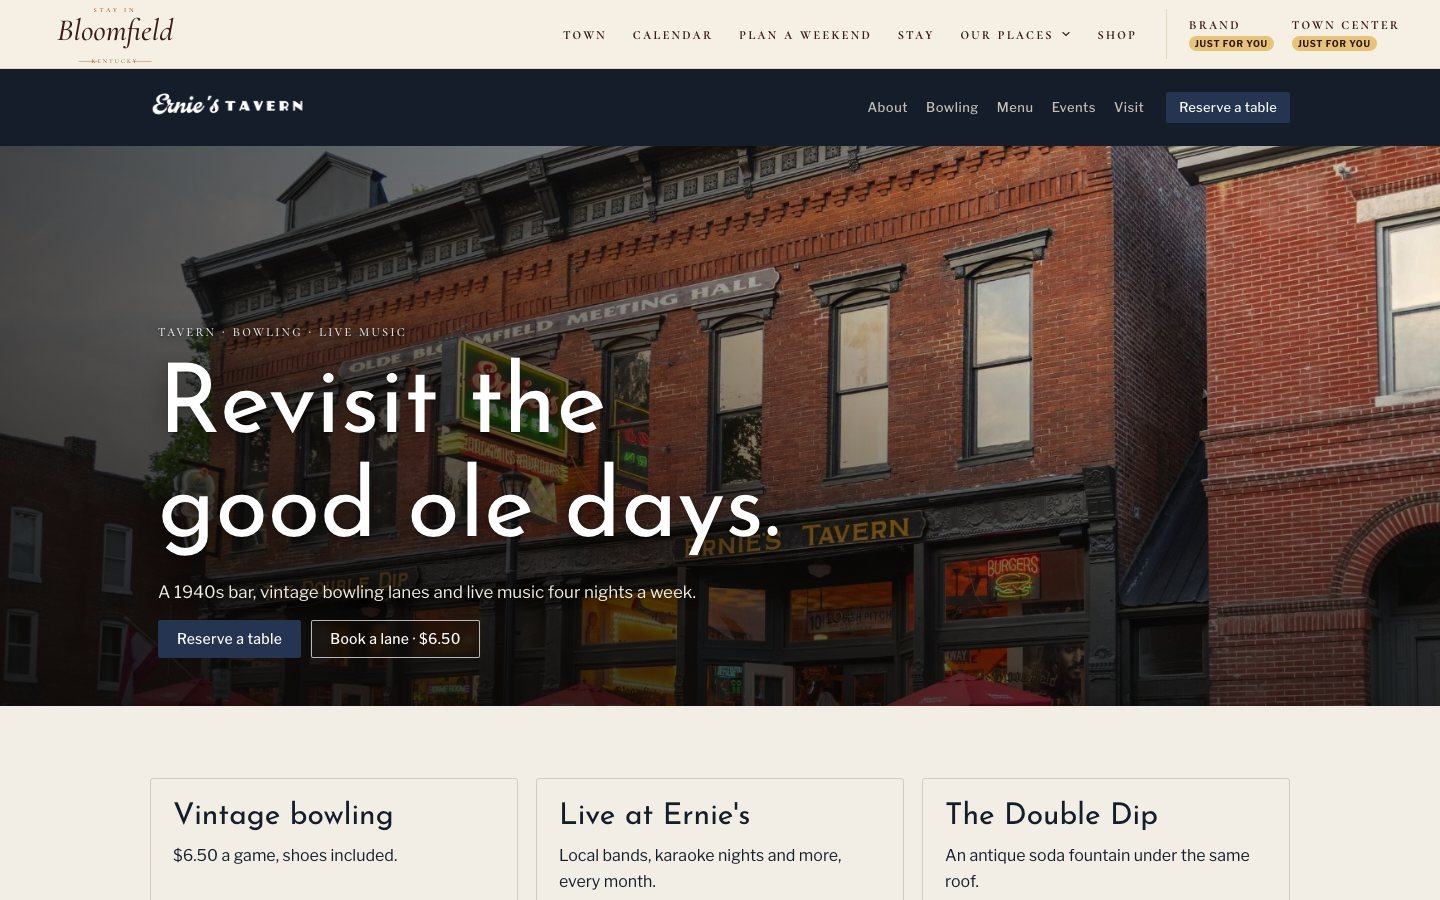
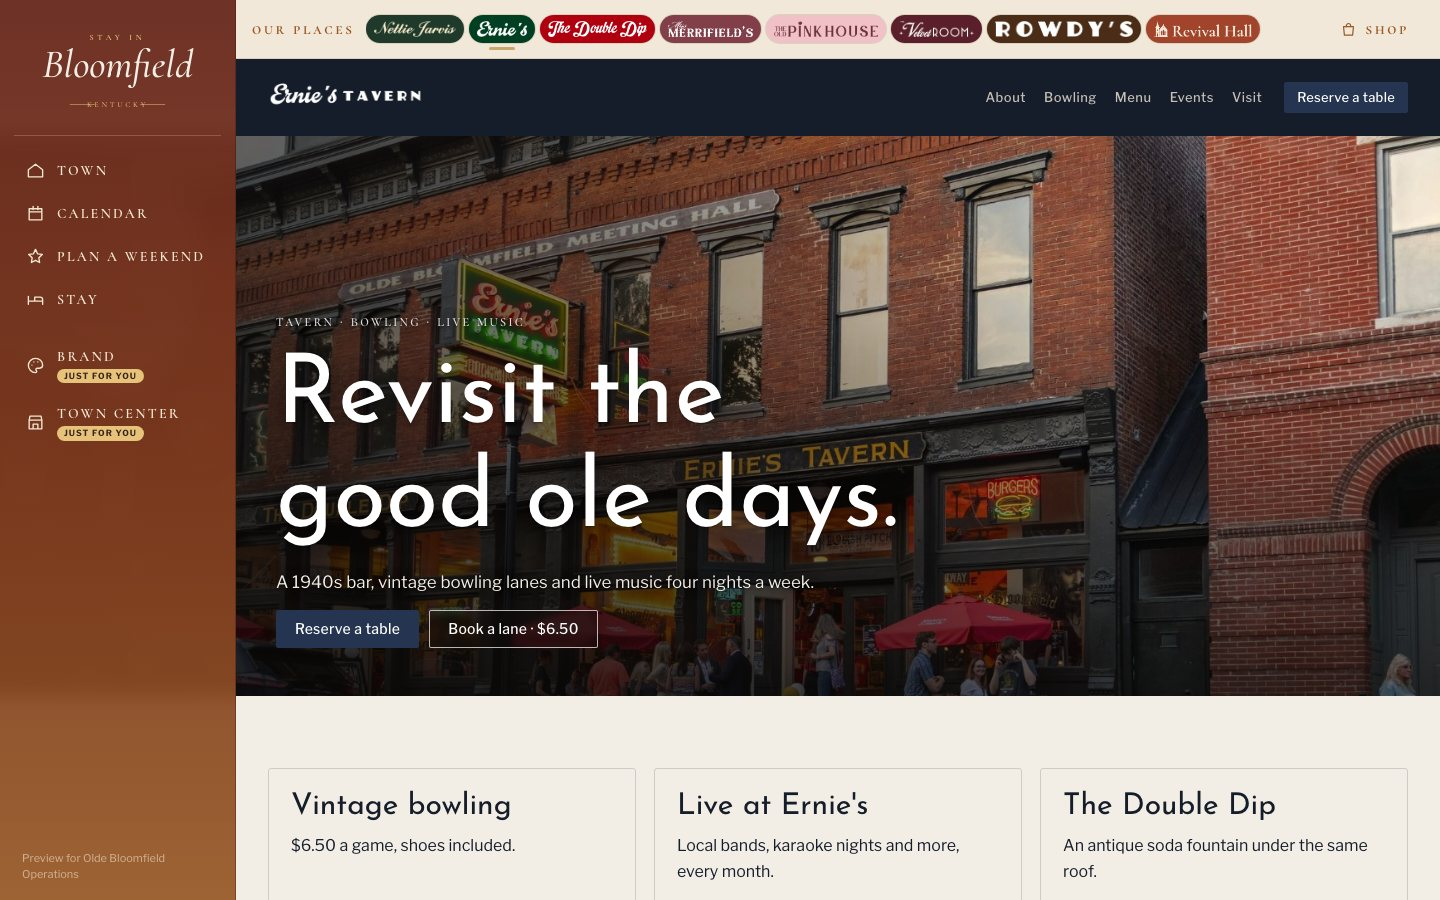
Ernie's header framing

diff --git a/index.html b/index.html
@@ -1964,7 +1964,7 @@ body.touring .tour-arrow { animation: nudgeup 1.2s ease-in-out infinite }
 .bowl-btn { font-size: 18px !important; padding: 16px 30px !important; background: #c8102e !important; border-color: #c8102e !important; color: #fff !important; border-radius: 40px }
 @media (max-width: 760px) { .bowl .wrap { grid-template-columns: 1fr; justify-items: center; text-align: center } .bowl-txt { justify-items: center } }
 
-.site-ernies .shero img { object-position: center 28% }
+.site-ernies .shero img { object-position: center 88% }
 
 /* the old sidebar is gone, so heroes no longer reach under it */
 
@@ -2019,12 +2019,12 @@ body.touring .tour-arrow { animation: nudgeup 1.2s ease-in-out infinite }
 
 <script src="https://cdn.jsdelivr.net/npm/three@0.147.0/build/three.min.js"></script>
 <script src="https://cdn.jsdelivr.net/npm/three@0.147.0/examples/js/controls/OrbitControls.js"></script>
-<script src="data.js?v=1793461023"></script>
-<script src="stays.data.js?v=1793461023"></script>
-<script src="map.js?v=1793461023"></script>
-<script src="app.js?v=1793461023"></script>
-<script src="brand.js?v=1793461023"></script>
-<script src="shop.js?v=1793461023"></script>
-<script src="center.js?v=1793461023"></script>
-<script src="notes.js?v=1793461023"></script>
+<script src="data.js?v=1793461101"></script>
+<script src="stays.data.js?v=1793461101"></script>
+<script src="map.js?v=1793461101"></script>
+<script src="app.js?v=1793461101"></script>
+<script src="brand.js?v=1793461101"></script>
+<script src="shop.js?v=1793461101"></script>
+<script src="center.js?v=1793461101"></script>
+<script src="notes.js?v=1793461101"></script>
 </body></html>
